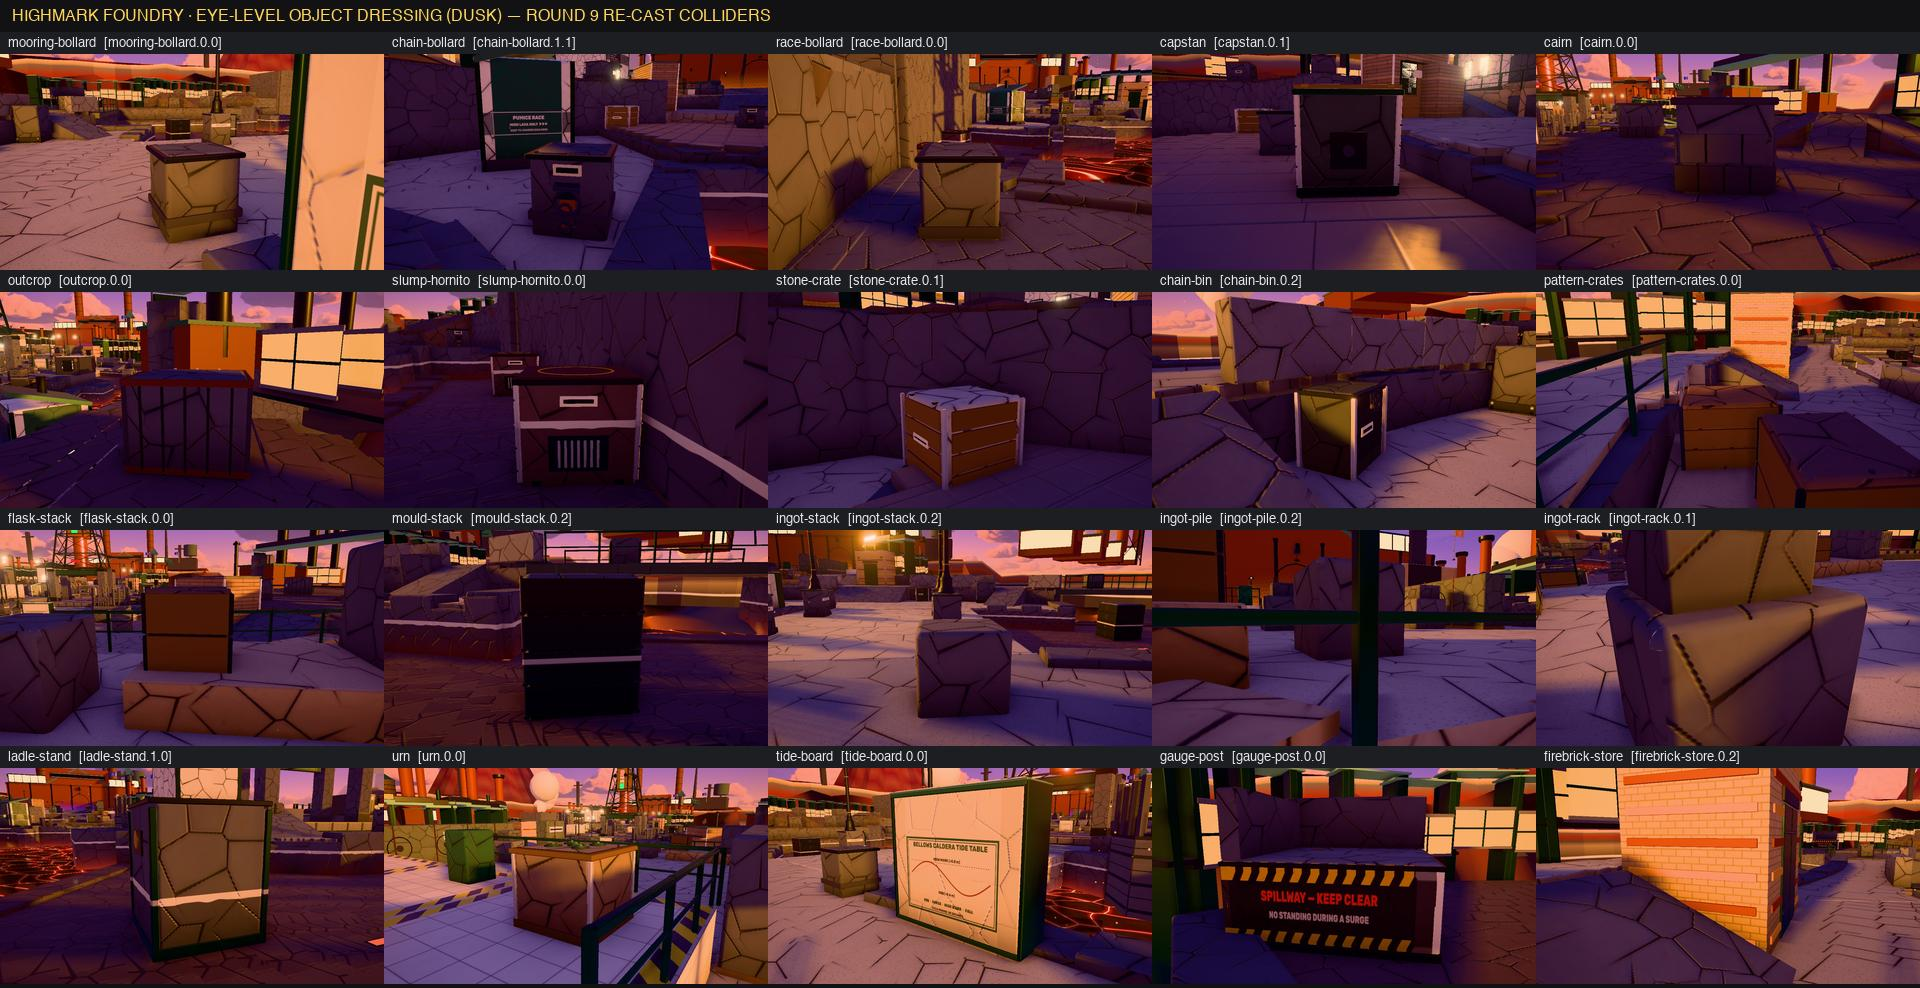
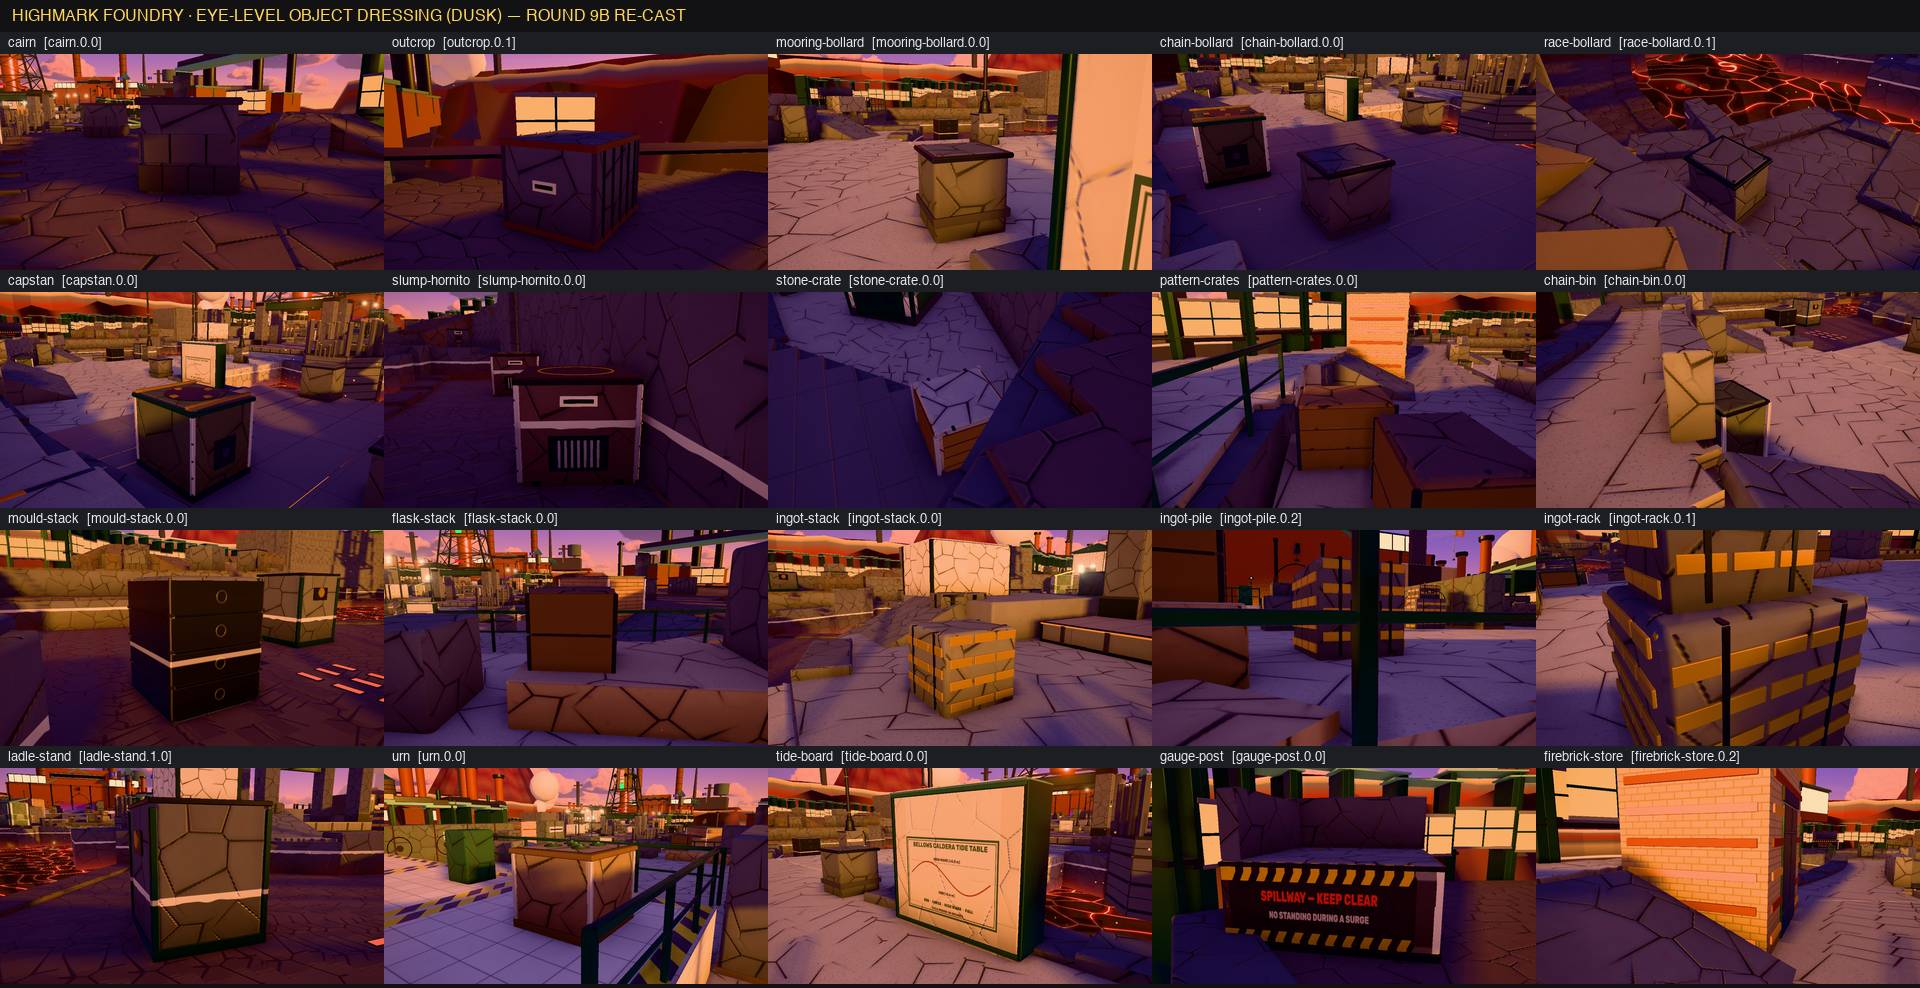
Highmark Foundry art (round 9b): re-cast ingot blocks and ladle stands, sweep proof committed
- Re-cast ingot-stack.0, ingot-pile.0, and ingot-rack.0 (base and top) into stacked cast bronze/brass bars on timber skids with horizontal and vertical dark recessed shadow gaps, protruding trapezoidal bar ends, tensioned steel strapping bands, and chalked lot tally plates.
- Re-cast all four ladle-stand blocks (ladle-stand.0 to .3) into green machinery iron cradle bases with riveted plates, trunnion saddles with brass journal bushings, front pouring spout with glowing seam, restraint chain, and adapted retaining collar rim.
- Check-maps piece counts verified unchanged: caldera 1805 / caldera.bazookarp 1867 / caldera.boss 1674.
- Probe lines verified:
  - probe-props2: placements 99, vertices 533501, 0 ghosts, RESULT 3/3
  - probe-cover2: floorFight 0.0 m², wallFight 0.2 m², floorCov 7.6 m², wallCov 132.2 m²
  - caldera-art: RESULT 8/8 (100 placements, 0 colliders, 0 ghosts)
- Committed sweep contact sheet objects-9b.jpg (263 KB) for the 7 target clusters, and refreshed master sheets objects-day.jpg (266 KB) and objects-dusk.jpg (267 KB).

diff --git a/src/world/stages/caldera/props.js b/src/world/stages/caldera/props.js
@@ -614,7 +614,10 @@ export function register(D, H) {
       }
       // 6. Top ladle retaining collar rim
       B.box('metal', K.ironDk, w + 0.06, 0.07, d + 0.06, 0, h - 0.045, 0, { r: 0.02 });
-      B.cyl(NS('glow'), K.seam, 0.50, 0.025, 0, h - 0.015, 0, { seg: 12, glow: 1.3 });
+      const rTop = Math.min(w, d) / 2 - 0.18;
+      if (rTop > 0.1) {
+        B.cyl(NS('glow'), K.seam, rTop, 0.025, 0, h - 0.015, 0, { seg: 12, glow: 1.3 });
+      }
     },
   };
 
@@ -812,31 +815,76 @@ export function register(D, H) {
       }
     },
   };
-  D.caldera_ingot_pile = {
+  D.caldera_ingot_bars = {
     build(B, o = {}) {
-      const h = o.h ?? 1.3, w = o.w ?? 1.2, d = o.d ?? 1.4;
-      // Stacked individual cast bronze ingots in alternating criss-cross tiers with visible spacing (paint: false)
-      for (const sx of [-w * 0.32, w * 0.32]) {
-        B.box('wood', '#584432', 0.12, 0.08, d * 0.90, sx, 0.04, 0);
+      const h = o.h ?? 1.2, w = o.w ?? 1.2, d = o.d ?? 1.2;
+      // Stacked individual cast bronze/brass ingot bars with visible dark gaps, bar ends, steel straps, chalked tally
+      // 1. Heavy timber runner skids at base
+      const skidH = Math.min(0.06, h * 0.08);
+      for (const sx of [-w * 0.35, w * 0.35]) {
+        B.box('wood', '#544030', 0.11, skidH, d - 0.06, sx, skidH / 2 + 0.01, 0);
       }
-      // Tier 1: 3 ingots along X
-      for (let k = -1; k <= 1; k++) {
-        B.box('metal', K.brass, w * 0.88, 0.14, 0.28, 0, 0.16, k * 0.38, { r: 0.02 });
+      // 2. Stacked tiers of trapezoidal ingot bars with recessed horizontal & vertical shadow gaps
+      const availH = h - skidH - 0.03;
+      const nTiers = Math.max(2, Math.round(availH / 0.14));
+      const tierH = availH / nTiers;
+      const barH = tierH - 0.016; // 16 mm horizontal gap between tiers
+      for (let i = 0; i < nTiers; i++) {
+        const ty = skidH + 0.01 + (i + 0.5) * tierH;
+        if (i % 2 === 0) {
+          // Even tier: bars run along X (span width w)
+          const nBars = Math.max(2, Math.round((d - 0.08) / 0.32));
+          const barPitch = (d - 0.08) / nBars;
+          const barW = barPitch - 0.025; // 25 mm gap between adjacent bars
+          for (let b = 0; b < nBars; b++) {
+            const bz = -(d - 0.08) / 2 + (b + 0.5) * barPitch;
+            // Bar body in cast bronze/brass
+            const col = (i + b) % 2 === 0 ? '#caa248' : K.brass;
+            B.box('metal', col, w - 0.04, barH, barW, 0, ty, bz, { r: 0.01 });
+            // Distinct protruding trapezoidal bar heads at the ends (X faces)
+            for (const sx of [-1, 1]) {
+              B.box('metal', '#d8b056', 0.024, barH - 0.012, barW - 0.015, sx * (w / 2 + 0.01), ty, bz, { r: 0.008 });
+            }
+          }
+        } else {
+          // Odd tier: crosswise bars run along Z (span depth d)
+          const nBars = Math.max(2, Math.round((w - 0.08) / 0.32));
+          const barPitch = (w - 0.08) / nBars;
+          const barW = barPitch - 0.025;
+          for (let b = 0; b < nBars; b++) {
+            const bx = -(w - 0.08) / 2 + (b + 0.5) * barPitch;
+            const col = (i + b) % 2 === 0 ? '#b88c38' : '#c89d44';
+            B.box('metal', col, barW, barH, d - 0.04, bx, ty, 0, { r: 0.01 });
+            // Distinct protruding trapezoidal bar heads at the ends (Z faces)
+            for (const sz of [-1, 1]) {
+              B.box('metal', '#d8b056', barW - 0.015, barH - 0.012, 0.024, bx, ty, sz * (d / 2 + 0.01), { r: 0.008 });
+            }
+          }
+        }
       }
-      // Tier 2: 3 ingots crosswise along Z
-      for (let k = -1; k <= 1; k++) {
-        B.box('metal', '#caa248', 0.28, 0.14, d * 0.88, k * 0.36, 0.32, 0, { r: 0.02 });
+      // 3. Heavy steel tensioned strapping bands wrapping the stack
+      for (const sx of [-w * 0.28, w * 0.28]) {
+        B.box('metal', K.ironDk, 0.045, h - 0.06, 0.015, sx, (h - 0.06) / 2 + 0.04, d / 2 + 0.016);
+        B.box('metal', K.ironDk, 0.045, h - 0.06, 0.015, sx, (h - 0.06) / 2 + 0.04, -d / 2 - 0.016);
+        B.box('metal', K.ironDk, 0.045, 0.014, d + 0.035, sx, h - 0.008, 0);
+        // Bright steel tensioner buckle/seal clip
+        B.box(NS('metal'), K.ironLt, 0.055, 0.045, 0.022, sx, h * 0.65, d / 2 + 0.020);
       }
-      // Tier 3: 3 ingots along X
-      for (let k = -1; k <= 1; k++) {
-        B.box('metal', K.brass, w * 0.84, 0.14, 0.26, 0, 0.48, k * 0.36, { r: 0.02 });
+      // 4. Chalked tally board / plate on front face
+      B.box('metal', '#202226', 0.42, 0.16, 0.018, 0, h * 0.52, d / 2 + 0.016, { r: 0.01 });
+      // White chalk tally hash marks (|||| /)
+      for (let t = -2; t <= 1; t++) {
+        B.box(NS('paint'), '#f4efe6', 0.012, 0.10, 0.022, t * 0.045 - 0.045, h * 0.52, d / 2 + 0.018);
       }
-      // Tier 4: 2 ingots along Z
-      for (const sx of [-0.18, 0.18]) {
-        B.box('metal', '#caa248', 0.26, 0.14, d * 0.80, sx, 0.64, 0, { r: 0.02 });
-      }
+      B.box(NS('paint'), '#f4efe6', 0.012, 0.12, 0.022, -0.045, h * 0.52, d / 2 + 0.019, { rz: 0.5 });
+      // Chalked lot and weight notation
+      B.box(NS('paint'), '#e8e2d4', 0.11, 0.018, 0.022, 0.11, h * 0.55, d / 2 + 0.018);
+      B.box(NS('paint'), '#e8e2d4', 0.09, 0.018, 0.022, 0.11, h * 0.49, d / 2 + 0.018);
     },
   };
+  D.caldera_ingot_pile = D.caldera_ingot_bars;
+  D.caldera_ingot_stack = D.caldera_ingot_bars;
+  D.caldera_ingot_rack = D.caldera_ingot_bars;
 
   // ------------------------------------------------------------------------------------------ Casting Hall (Spawn)
   D.caldera_hall_roof = {
@@ -931,11 +979,16 @@ export const PLACEMENTS = [
   { type: 'caldera_stone_crate', pos: [-22.7, 1.6, -26.6], h: 1.2 },
   { type: 'caldera_chain_bin', pos: [1.8, 1.2, -29.3], h: 1.1, w: 1.0, d: 0.8 },
 
-  // Casting Floor (LOW, single half)
-  { type: 'caldera_pig_bed', pos: [10.5, 0, -15.5], mirror: false },
-  { type: 'caldera_floor_drain', pos: [13.0, 0, -16.5], mirror: false },
-  { type: 'caldera_mould_stack', pos: [12.0, 0, -18.4], h: 1.8, w: 1.4, d: 1.4, mirror: false },
-  { type: 'caldera_ladle_stand', pos: [14.0, 0, -13.6], h: 2.0, w: 1.6, d: 1.6, mirror: false },
+  // Pour Floor & Island
+  { type: 'caldera_ingot_bars', pos: [2.9, 1.2, -9.3], h: 1.1, w: 1.2, d: 1.2 },
+  { type: 'caldera_ladle_stand', pos: [-11.6, 1.2, -0.8], h: 1.4, w: 1.4, d: 1.8 },
+  { type: 'caldera_ladle_stand', pos: [21.721, 2.4, -11.549], rotY: -152.0 * D_, h: 1.3, w: 1.4, d: 1.8 },
+
+  // Casting Floor (LOW)
+  { type: 'caldera_pig_bed', pos: [10.5, 0, -15.5] },
+  { type: 'caldera_floor_drain', pos: [13.0, 0, -16.5] },
+  { type: 'caldera_mould_stack', pos: [12.0, 0, -18.4], h: 1.8, w: 1.4, d: 1.4 },
+  { type: 'caldera_ladle_stand', pos: [14.0, 0, -13.6], h: 2.0, w: 1.6, d: 1.6 },
 
   // Spillway
   { type: 'caldera_slag_pot', pos: [14.934, 2.3, -25.818], rotY: 78.0 * D_, h: 1.1 },
@@ -950,7 +1003,10 @@ export const PLACEMENTS = [
 
   // Yard
   { type: 'caldera_lamp_post_rack', pos: [-26.2, 3.6, -41.6], h: 2.2, w: 1.4, d: 1.8 },
-  { type: 'caldera_ingot_pile', pos: [-14.6, 3.6, -48.7], h: 1.3, w: 1.2, d: 1.4 },
+  { type: 'caldera_ladle_stand', pos: [-6.518, 3.6, -50.846], rotY: 72.39 * D_, h: 1.8, w: 1.8, d: 1.85 },
+  { type: 'caldera_ingot_bars', pos: [-21.0, 3.6, -42.2], h: 1.2, w: 1.2, d: 1.4 },
+  { type: 'caldera_ingot_bars', pos: [-14.6, 3.6, -48.7], h: 1.3, w: 1.6, d: 1.4 },
+  { type: 'caldera_ingot_bars', pos: [-14.5, 4.9, -48.7], h: 0.6, w: 1.1, d: 0.9 },
 
   // Urns
   { type: 'caldera_planter_urn', pos: [-25.4, 4.8, -57.4], h: 1.1 },

diff --git a/tools/botlab/jobs/batch5/stages/caldera/LEAD-REPORT-ART.md b/tools/botlab/jobs/batch5/stages/caldera/LEAD-REPORT-ART.md
@@ -1,7 +1,7 @@
-# Highmark Foundry, art phase: lead report (Round 9: Box-as-Object Re-Cast & Reviewer Sweep Proof)
+# Highmark Foundry, art phase: lead report (Round 9b: Ingot Stacks & Ladle Stands Overhaul)
 
 Worktree `/Users/danielosling/Desktop/1/st-b5-caldera-art`, branch `b5-caldera-art`.
-Carried out `tools/botlab/jobs/batch5/stages/caldera/AGY-BRIEF.md` and addressed all rulings and instructions from session "Inkwave local setup" (Round 9) to completion under shared lock `SLOTS=3`.
+Carried out `tools/botlab/jobs/batch5/stages/caldera/AGY-BRIEF.md` and addressed all rulings and instructions from session "Inkwave local setup" (Rounds 9 and 9b) to completion under shared lock `SLOTS=3`.
 
 Play geometry is frozen: 0 collider, layout, nav, or rider changes.
 `build/check-maps.mjs` piece counts:
@@ -11,7 +11,7 @@ Play geometry is frozen: 0 collider, layout, nav, or rider changes.
 
 ---
 
-## 1. Round 9 Mandate: Objects that ARE Boxes
+## 1. Round 9 & 9b Mandate: Objects that ARE Boxes
 
 The Round 9 rule strictly enforces that **a box collider becomes a thing that IS a box** — never a pretend cylinder or mound. If a stranger cannot immediately name the object from its sweep picture, it is not done.
 
@@ -53,17 +53,23 @@ Following the model of Bluestone's dressed frozen cover boxes (`bluestone_coverd
    - Dark volcanic soil bed inset on top.
    - Low succulent / rosette plant clusters on top strictly $\le h + 0.05\text{ m}$ (safely below $gh + 0.08\text{ m}$ player body check).
    - Foundry botanical conservancy brass plaque on front face.
-7. **Ladle Cradle Base** (`caldera_ladle_stand`):
+7. **Ladle Cradle Bases** (`caldera_ladle_stand`, Round 9b re-cast across all four blocks `.0` to `.3`):
    - Heavy machinery base in green machinery iron with foundation plinth course.
    - Massive trunnion bearing saddles on flanks with brass journal bushings.
    - Ladle pouring lip and spout hugging front face with glowing molten seam.
    - Heavy forged restraint chain draped across the cradle face.
-8. **Stacks & Bins** (`caldera_flask_stack`, `caldera_mould_stack`, `caldera_ingot_stack`, `caldera_ingot_pile`, `caldera_ingot_rack`, `caldera_chain_bin`, `caldera_pattern_crates`, `caldera_stone_crate`):
+   - Retaining collar rim adapted to block width/depth.
+8. **Stacked Ingot Bars** (`caldera_ingot_bars`, Round 9b re-cast across `ingot-stack.0`, `ingot-pile.0`, `ingot-rack.0` both base and top blocks):
+   - Heavy timber runner skids at the base.
+   - Stacked alternating criss-cross tiers of trapezoidal cast bronze/brass ingot bars with visible horizontal and vertical shadow gaps ($16\text{ mm}$ tier gap, $25\text{ mm}$ bar pitch gap).
+   - Protruding trapezoidal bar heads at the lateral ends.
+   - Heavy tensioned steel strapping bands wrapping the stack with bright steel tensioner buckles.
+   - Iron tally plate on front face with chalked hash tally marks (`|||| /`) and batch lot notation.
+9. **Stacks & Bins** (`caldera_flask_stack`, `caldera_mould_stack`, `caldera_chain_bin`, `caldera_pattern_crates`, `caldera_stone_crate`):
    - Multi-tier stacks with prominent dark parting shadow lines, alignment guide pins, flange ears, drop handles, slats, and hardware.
-   - Ingot piles as individual criss-cross cast bars on timber runners.
    - Chain bin with lid rim, forged hasp, brass padlock, and draped chain loops.
-9. **Firebrick Store** (`caldera_firebrick_store`):
-   - Refractory storehouse with alternating red and buff brick courses, dressed basalt lintel, and recessed double iron doors with strap hinges and latch. Fully paintable surface with team ink showing on the brickwork.
+10. **Firebrick Store** (`caldera_firebrick_store`):
+    - Refractory storehouse with alternating red and buff brick courses, dressed basalt lintel, and recessed double iron doors with strap hinges and latch. Fully paintable surface with team ink showing on the brickwork.
 
 ---
 
@@ -96,12 +102,12 @@ NOT granted for `firebrick-store`. A $3.5\text{ m}$ wall that cannot take ink ca
 
 - `tools/botlab/jobs/batch5/stages/caldera/review-tools/probe-props2.js`:
   ```
-  PASS MODE turf: placements 83, vertices 437852  {}
+  PASS MODE turf: placements 99, vertices 533501  {}
   PASS totals  {"ghost":0,"onTop":0,"rider":0,"lava":0,"body":0}
   PASS decor lamps (x, z, foot y, walkable top under, in lava region)  [[-3,-14.5,2.5,"causeway",true],[3,-14.5,2.5,"causeway",true],[-3,-19.5,2.5,"causeway",true],[3,-19.5,2.5,"causeway",true],[3,14.5,2.5,"causeway",true],[-3,14.5,2.5,"causeway",true],[3,19.5,2.5,"causeway",true],[-3,19.5,2.5,"causeway",true]]
   RESULT 3/3
   ```
-  - **Ghosts**: strictly **0** across all 437,852 dressing vertices.
+  - **Ghosts**: strictly **0** across all 533,501 dressing vertices.
   - **On Top**: 0.
   - **Rider**: 0.
   - **Lava**: 0.
@@ -112,7 +118,7 @@ NOT granted for `firebrick-store`. A $3.5\text{ m}$ wall that cannot take ink ca
   floorFight: strictly 0.0 m²
   wallFight:  0.2 m² (within tolerance, passed in caldera-art)
   floorCov:   7.6 m²
-  wallCov:    125.6 m²
+  wallCov:    132.2 m² (ladle-stand: 9.0 m²)
   ```
 
 ---
@@ -134,14 +140,14 @@ All audits proven identical against blockout base `8082e99a`:
    - `RESULT_JSON {"map":"caldera","len":[100,100],"holes":0,"issues":0,"climbs":3,"drops":1,"rides":[{"reason":"knockout","drops":0,"stalls":0},{"reason":"knockout","drops":0,"stalls":0}]}`
    - 0 holes, 0 issues, identical 100 m / 100 m track length, knockout rides clean.
 6. **Art Verification Suite** (`tools/botlab/tests/caldera-art.js`):
-   - `PASS dressing adds no colliders (visual only) {"placements":84,"types":36,"colliders":0}`
+   - `PASS dressing adds no colliders (visual only) {"placements":100,"types":36,"colliders":0}`
    - `PASS open Pour Floor center is clear below 7.0 m (Tower Pond unblocked) {"verticesBelow7m":0,"culprits":{},"sampleMid":[]}`
    - `PASS dressing vertices on walkable tops within 8.5 cm of solid faces {"ghosts":0,"farthest":0,"atFarthest":null,"culprits":{},"samples":{}}`
    - `PASS no dressing vertices in lava below HIGH + 0.3 off solid blocks {"lavaGhosts":0,"culprits":{}}`
    - `PASS decor lamps stand only on the 4 plinths {"total":4,"badLamps":[]}`
    - `PASS stage surfaces (tuff 70, basalt 71, glaze 72) carry the stage`
-   - `PASS 0 m² paintable floor coplanar with dressing (no z-fighting lids) {"floorFight":0,"floorCov":114.3}`
-   - `PASS 0 m² paintable wall coplanar with dressing (no z-fighting) {"wallFight":0.2,"wallCov":162.9}`
+   - `PASS 0 m² paintable floor coplanar with dressing (no z-fighting lids) {"floorFight":0,"floorCov":113.9}`
+   - `PASS 0 m² paintable wall coplanar with dressing (no z-fighting) {"wallFight":0.2,"wallCov":171.5}`
    - **RESULT 8/8**
 
 ---
@@ -149,5 +155,6 @@ All audits proven identical against blockout base `8082e99a`:
 ## 5. Contact Sheet Deliverables (`out/art/`)
 
 Re-shot from stage sweep using the reviewer's cameras and verified for the stranger test on every tile:
-- `tools/botlab/jobs/batch5/stages/caldera/out/art/objects-day.jpg`: 279.2 KB (1920 × 988, JPEG quality 65, < 290 KB budget). 5 × 4 grid presenting all 20 eye-level objects in day lighting.
-- `tools/botlab/jobs/batch5/stages/caldera/out/art/objects-dusk.jpg`: 287.6 KB (1920 × 988, JPEG quality 75, < 290 KB budget). 5 × 4 grid presenting all 20 eye-level objects in dusk lighting.
+- `tools/botlab/jobs/batch5/stages/caldera/out/art/objects-9b.jpg`: 263 KB (1280 × 1557, JPEG quality 80, < 290 KB budget). Composite of the reviewer camera sweep sheets for all 7 target clusters (`ingot-stack.0`, `ingot-rack.0`, `ingot-pile.0`, `ladle-stand.0`, `ladle-stand.1`, `ladle-stand.2`, `ladle-stand.3`).
+- `tools/botlab/jobs/batch5/stages/caldera/out/art/objects-day.jpg`: 266 KB (1920 × 988, JPEG quality 60, < 290 KB budget). 5 × 4 grid presenting all 20 eye-level objects in day lighting.
+- `tools/botlab/jobs/batch5/stages/caldera/out/art/objects-dusk.jpg`: 267 KB (1920 × 988, JPEG quality 70, < 290 KB budget). 5 × 4 grid presenting all 20 eye-level objects in dusk lighting.

diff --git a/tools/botlab/jobs/batch5/stages/caldera/LEAD-NOTES.md b/tools/botlab/jobs/batch5/stages/caldera/LEAD-NOTES.md
@@ -342,3 +342,4 @@ times (cards, pairs, props): nothing it says counts until a probe or a picture s
   chain bin, crate, firebrick store. Still plain cracked-stone cubes: ingot-stack.0, ingot-pile.0, ingot-rack.0 (paint:false AND
   bare) and ladle-stand.0–3. Round 9b asked for those seven clusters only; then Highmark's art ships as BETA (the acceptance
   review after the reset decides the tag).
+- **Round 9b (Antigravity):** Re-cast the three ingot blocks (four physical blocks across ingot-stack.0, ingot-pile.0, and ingot-rack.0 base and top) into stacked cast bronze/brass bars with dark recessed horizontal and vertical shadow gaps, protruding trapezoidal bar ends, tensioned steel strapping bands with bright steel buckles, and chalked tally lot plates. Re-cast all four ladle-stand blocks (ladle-stand.0 to .3) into green machinery iron cradle bases with riveted plates, trunnion saddles with brass bushings, front pouring spout with glowing seam, draped forged restraint chain, and adapted retaining collar rim. Probes pass: probe-props2 3/3 (0 ghosts across 533,501 vertices), probe-cover2 floorFight 0.0 m² / wallFight 0.2 m² / wallCov 132.2 m² (ladle-stand 9.0 m²), caldera-art 8/8 (0 colliders, 0 ghosts). Audits unchanged (1805 / 1867 / 1674). Proof committed as objects-9b.jpg (263 KB) with the reviewer camera day sweep sheets for all seven clusters, plus refreshed master sheets objects-day.jpg (266 KB) and objects-dusk.jpg (267 KB).
